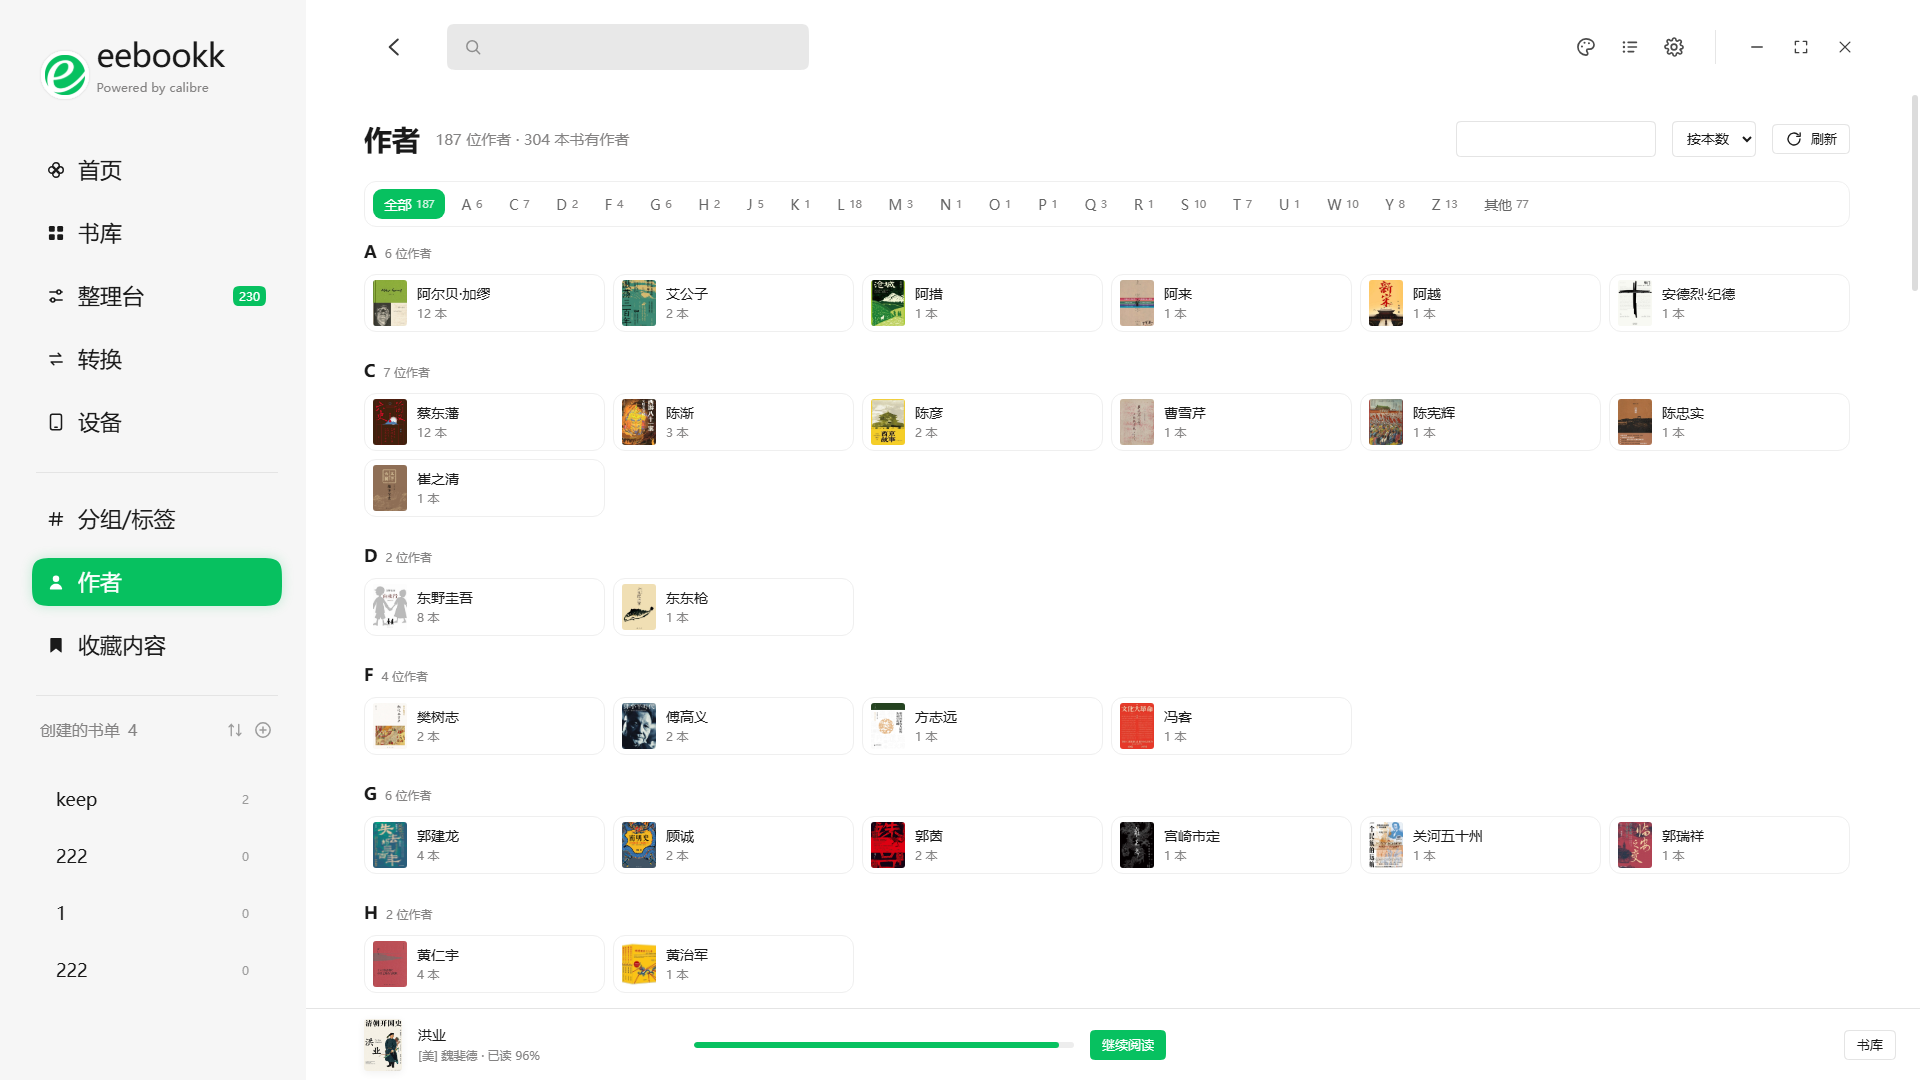
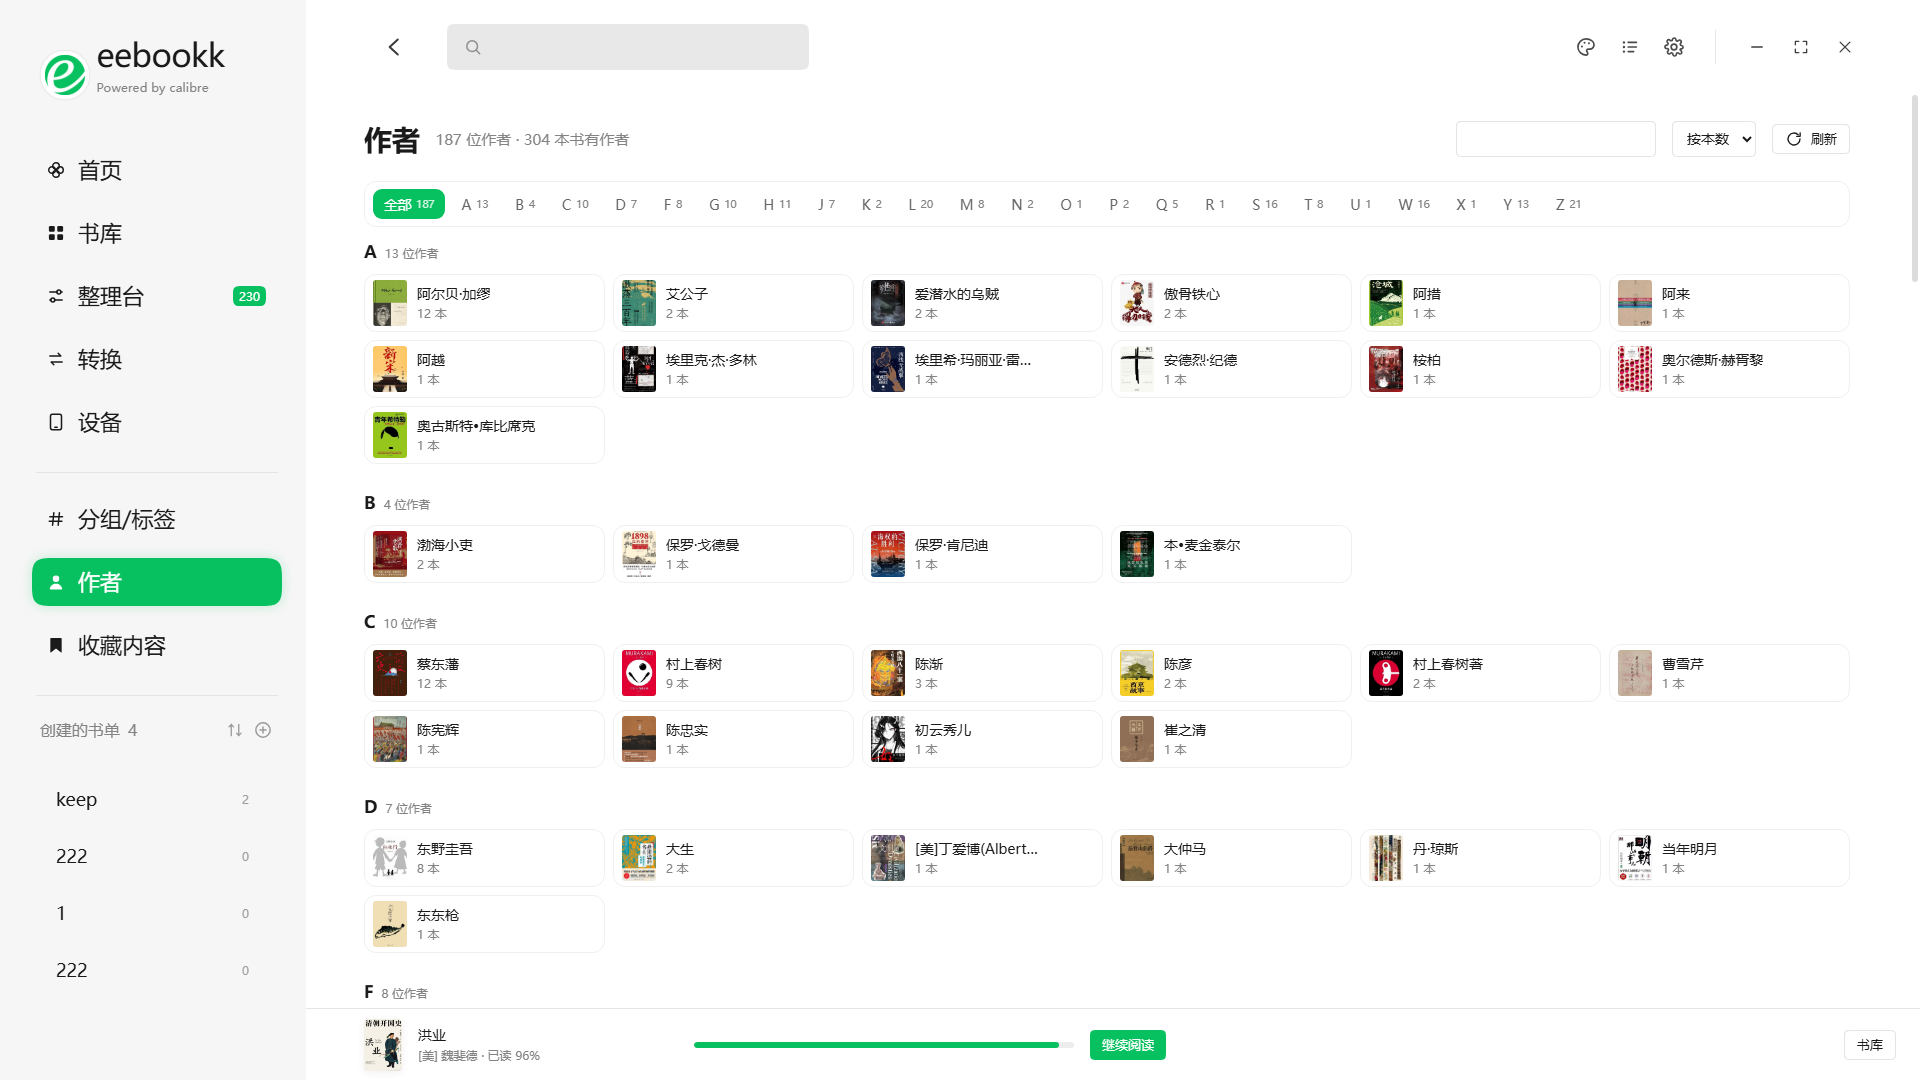
0.1.20: 作者页 A-Z 分组修复（剥国籍前缀 + 补 454 字首字母表，其他 77->0）、编辑器加查找替换与实时预览

diff --git a/src/renderer/src/pages/Editor.tsx b/src/renderer/src/pages/Editor.tsx
@@ -1,4 +1,4 @@
-import { useEffect, useMemo, useState } from 'react'
+import { useEffect, useMemo, useState } from 'react'
 import { CH } from '../../../shared/ipc'
 import type { EpubFileContent, EpubFileEntry } from '../../../shared/types'
 import { useApp } from '../app/context'
@@ -37,6 +37,9 @@ export default function Editor({ id }: { id: number }): React.ReactElement {
   const [busy, setBusy] = useState(false)
   const [error, setError] = useState('')
   const [backups, setBackups] = useState<string[]>([])
+  const [findText, setFindText] = useState('')
+  const [replaceText, setReplaceText] = useState('')
+  const [preview, setPreview] = useState(false)
 
   useEffect(() => {
     let alive = true
@@ -85,6 +88,42 @@ export default function Editor({ id }: { id: number }): React.ReactElement {
     } finally {
       setBusy(false)
     }
+  }
+
+  /** 当前文件里的命中数 */
+  const hitCount = content?.status === 'ok' && findText ? content.text.split(findText).length - 1 : 0
+
+  const jumpHit = (dir: 1 | -1): void => {
+    if (!content || content.status !== 'ok' || !findText) return
+    const el = document.querySelector('.ed-code') as HTMLTextAreaElement | null
+    if (!el) return
+    const from = dir > 0 ? el.selectionEnd : 0
+    const idx = dir > 0 ? content.text.indexOf(findText, from) : content.text.lastIndexOf(findText, from)
+    const at = idx === -1 ? content.text.indexOf(findText) : idx
+    if (at === -1) {
+      return
+    }
+    el.focus()
+    el.setSelectionRange(at, at + findText.length)
+    el.scrollTop = Math.max(0, content.text.slice(0, at).split('\n').length * 20 - 160)
+  }
+
+  const replaceOne = (): void => {
+    if (!content || content.status !== 'ok' || !findText) return
+    const el = document.querySelector('.ed-code') as HTMLTextAreaElement | null
+    const from = el?.selectionStart ?? 0
+    const at = content.text.indexOf(findText, from)
+    const pos = at === -1 ? content.text.indexOf(findText) : at
+    if (pos === -1) return
+    const next = content.text.slice(0, pos) + replaceText + content.text.slice(pos + findText.length)
+    setContent({ ...content, text: next })
+    setDirty(true)
+  }
+
+  const replaceAll = (): void => {
+    if (!content || content.status !== 'ok' || !findText) return
+    setContent({ ...content, text: content.text.split(findText).join(replaceText) })
+    setDirty(true)
   }
 
   const save = async (): Promise<void> => {
@@ -227,15 +266,63 @@ export default function Editor({ id }: { id: number }): React.ReactElement {
             </div>
           ) : null}
           {content?.status === 'ok' ? (
-            <textarea
-              className="ed-code"
-              spellCheck={false}
-              value={content.text}
-              onChange={(e) => {
-                setContent({ ...content, text: e.target.value })
-                setDirty(true)
-              }}
-            />
+            <>
+              <div className="ed-tools">
+                <input
+                  className="ed-find"
+                  value={findText}
+                  onChange={(e) => setFindText(e.target.value)}
+                  onKeyDown={(e) => {
+                    if (e.key === 'Enter') jumpHit(e.shiftKey ? -1 : 1)
+                  }}
+                  placeholder="查找"
+                />
+                <input
+                  className="ed-find"
+                  value={replaceText}
+                  onChange={(e) => setReplaceText(e.target.value)}
+                  placeholder="替换为"
+                />
+                <span className="ed-hits">{findText ? `${hitCount} 处` : ''}</span>
+                <button className="btn btn-sm" disabled={!hitCount} onClick={() => jumpHit(1)}>
+                  下一个
+                </button>
+                <button className="btn btn-sm" disabled={!hitCount} onClick={() => jumpHit(-1)}>
+                  上一个
+                </button>
+                <button className="btn btn-sm" disabled={!hitCount} onClick={replaceOne}>
+                  替换
+                </button>
+                <button className="btn btn-sm" disabled={!hitCount} onClick={replaceAll}>
+                  全部替换
+                </button>
+                <span className="spacer" />
+                <button
+                  className={`btn btn-sm${preview ? ' btn-primary' : ''}`}
+                  onClick={() => setPreview((v) => !v)}
+                >
+                  预览
+                </button>
+              </div>
+              <div className={`ed-split${preview ? ' is-preview' : ''}`}>
+                <textarea
+                  className="ed-code"
+                  spellCheck={false}
+                  value={content.text}
+                  onChange={(e) => {
+                    setContent({ ...content, text: e.target.value })
+                    setDirty(true)
+                  }}
+                />
+                {preview ? (
+                  <iframe
+                    className="ed-preview"
+                    title="预览"
+                    src={`epubres://${id}/${content.path}`}
+                  />
+                ) : null}
+              </div>
+            </>
           ) : content ? (
             <div className="ed-blocked">
               {content.path} · {bytes(content.bytes)}

diff --git a/src/renderer/src/pages/Authors.tsx b/src/renderer/src/pages/Authors.tsx
@@ -28,6 +28,79 @@ function splitAuthors(authors: string): string[] {
  * 表里没有的字（译名、日文名、生僻姓）统一归到「其他」，比乱猜准确。
  */
 const SURNAME_INITIAL: Record<string, string> = {
+
+  // 音译名常用字（国籍前缀剥掉后往往从这里开始）
+  '神': 'S', '巴': 'B', '拜': 'B', '邦': 'B', '比': 'B', '彼': 'B', '波': 'B', '伯': 'B',
+  '博': 'B', '布': 'B', '查': 'C', '达': 'D', '道': 'D', '德': 'D', '迪': 'D', '蒂': 'D',
+  '多': 'D', '厄': 'E', '恩': 'E', '尔': 'E', '法': 'F', '芬': 'F', '戈': 'G', '哥': 'G',
+  '根': 'G', '基': 'J', '杰': 'J', '卡': 'K', '凯': 'K', '科': 'K', '克': 'K', '库': 'K',
+  '拉': 'L', '莱': 'L', '兰': 'L', '勒': 'L', '里': 'L', '利': 'L', '洛': 'L', '玛': 'M',
+  '曼': 'M', '纳': 'N', '奈': 'N', '娜': 'N', '尼': 'N', '诺': 'N', '帕': 'P', '普': 'P',
+  '切': 'Q', '塞': 'S', '斯': 'S', '索': 'S', '塔': 'T', '特': 'T', '瓦': 'W', '维': 'W',
+  '沃': 'W', '西': 'X', '希': 'X', '亚': 'Y', '耶': 'Y', '伊': 'Y', '尤': 'Y', '扎': 'Z',
+  // 按实际书库里缺的首字补齐（实测 187 位作者里 77 位落进「其他」）
+  '埃': 'A',
+  '奥': 'A',
+  '傲': 'A',
+  '爱': 'A',
+  '桉': 'A',
+  '保': 'B',
+  '渤': 'B',
+  '本': 'B',
+  '村': 'C',
+  '初': 'C',
+  '大': 'D',
+  '丹': 'D',
+  '当': 'D',
+  '弗': 'F',
+  '福': 'F',
+  '菲': 'F',
+  '锋': 'F',
+  '冈': 'G',
+  '格': 'G',
+  '孤': 'G',
+  '亨': 'H',
+  '哈': 'H',
+  '壶': 'H',
+  '河': 'H',
+  '海': 'H',
+  '红': 'H',
+  '黑': 'H',
+  '赫': 'H',
+  '加': 'J',
+  '见': 'J',
+  '历': 'L',
+  '榴': 'L',
+  '迈': 'M',
+  '美': 'M',
+  '猫': 'M',
+  '魔': 'M',
+  '谋': 'M',
+  '楠': 'N',
+  '群': 'Q',
+  '青': 'Q',
+  '日': 'R',
+  '三': 'S',
+  '双': 'S',
+  '萨': 'S',
+  '泰': 'T',
+  '威': 'W',
+  '吾': 'W',
+  '忘': 'W',
+  '未': 'W',
+  '小': 'X',
+  '原': 'Y',
+  '月': 'Y',
+  '有': 'Y',
+  '岩': 'Y',
+  '阎': 'Y',
+  '指': 'Z',
+  '中': 'Z',
+  '紫': 'Z',
+  '織': 'Z',
+  '脂': 'Z',
+  '蜘': 'Z',
+  '最': 'Z',
   '安': 'A', '艾': 'A', '敖': 'A', '阿': 'A',
   '白': 'B', '包': 'B', '鲍': 'B', '毕': 'B', '卞': 'B', '边': 'B', '卜': 'B', '柏': 'B',
   '班': 'B', '贝': 'B', '别': 'B', '邴': 'B',
@@ -73,18 +146,32 @@ const SURNAME_INITIAL: Record<string, string> = {
   '席': 'X', '项': 'X', '辛': 'X', '解': 'X', '奚': 'X', '冼': 'X', '轩': 'X', '幸': 'X',
   '杨': 'Y', '袁': 'Y', '于': 'Y', '余': 'Y', '叶': 'Y', '姚': 'Y', '尹': 'Y', '闫': 'Y',
   '严': 'Y', '颜': 'Y', '易': 'Y', '岳': 'Y', '殷': 'Y', '俞': 'Y', '喻': 'Y', '应': 'Y',
-  '郁': 'Y', '伊': 'Y', '元': 'Y', '尤': 'Y', '阳': 'Y', '晏': 'Y', '苑': 'Y', '燕': 'Y',
+  '郁': 'Y', '元': 'Y', '阳': 'Y', '晏': 'Y', '苑': 'Y', '燕': 'Y',
   '乐': 'Y', '尉': 'Y', '宇': 'Y', '游': 'Y', '虞': 'Y', '庾': 'Y',
   '张': 'Z', '赵': 'Z', '周': 'Z', '朱': 'Z', '郑': 'Z', '钟': 'Z', '邹': 'Z', '曾': 'Z',
   '詹': 'Z', '庄': 'Z', '章': 'Z', '翟': 'Z', '祝': 'Z', '仲': 'Z', '宗': 'Z', '卓': 'Z',
-  '左': 'Z', '甄': 'Z', '查': 'Z', '诸': 'Z', '昝': 'Z', '臧': 'Z', '支': 'Z'
+  '左': 'Z', '甄': 'Z', '诸': 'Z', '昝': 'Z', '臧': 'Z', '支': 'Z',
+
 }
 
 const LETTERS = 'ABCDEFGHIJKLMNOPQRSTUVWXYZ'.split('')
 const GROUP_ORDER = [...LETTERS, '#', '其他']
 
+/** 去掉「[美]」「（英）」「〔日〕」这类国籍前缀，再取第一个有效字符 */
+function firstSignificant(name: string): string {
+  let s = name.trim()
+  for (let guard = 0; guard < 4; guard += 1) {
+    const next = s
+      .replace(/^[\s·•・,，.。:：\-—_]+/, '')
+      .replace(/^[\[(（【〔『「][^\])）】〕』」]{1,4}[\])）】〕』」]/, '')
+    if (next === s) break
+    s = next
+  }
+  return s.trim().charAt(0)
+}
+
 function initialOf(name: string): string {
-  const first = name.trim().charAt(0)
+  const first = firstSignificant(name)
   if (!first) return '其他'
   if (/[A-Za-z]/.test(first)) return first.toUpperCase()
   if (/[0-9]/.test(first)) return '#'

diff --git a/src/renderer/src/styles.css b/src/renderer/src/styles.css
@@ -3525,3 +3525,55 @@ html[data-theme='dark'] .warn-box {
   font-size: 13px;
   color: var(--t2);
 }
+
+/* ---- 编辑器：工具栏与预览分栏 ---- */
+
+.ed-tools {
+  display: flex;
+  align-items: center;
+  gap: 8px;
+  padding: 8px 0;
+  flex: none;
+  flex-wrap: wrap;
+}
+
+.ed-find {
+  height: 30px;
+  min-width: 150px;
+  padding: 0 10px;
+  border-radius: 8px;
+  border: 1px solid var(--hairline);
+  background: var(--surface);
+  color: var(--t1);
+  font-size: 13px;
+}
+
+.ed-hits {
+  font-size: 12px;
+  color: var(--t2);
+  min-width: 42px;
+}
+
+.ed-split {
+  flex: 1;
+  min-height: 0;
+  display: flex;
+  gap: 10px;
+}
+
+.ed-split .ed-code {
+  flex: 1;
+  min-width: 0;
+}
+
+.ed-split.is-preview .ed-code {
+  flex: 0 0 52%;
+}
+
+.ed-preview {
+  flex: 1;
+  min-width: 0;
+  border: 1px solid var(--hairline);
+  border-radius: 10px;
+  background: #fff;
+}
